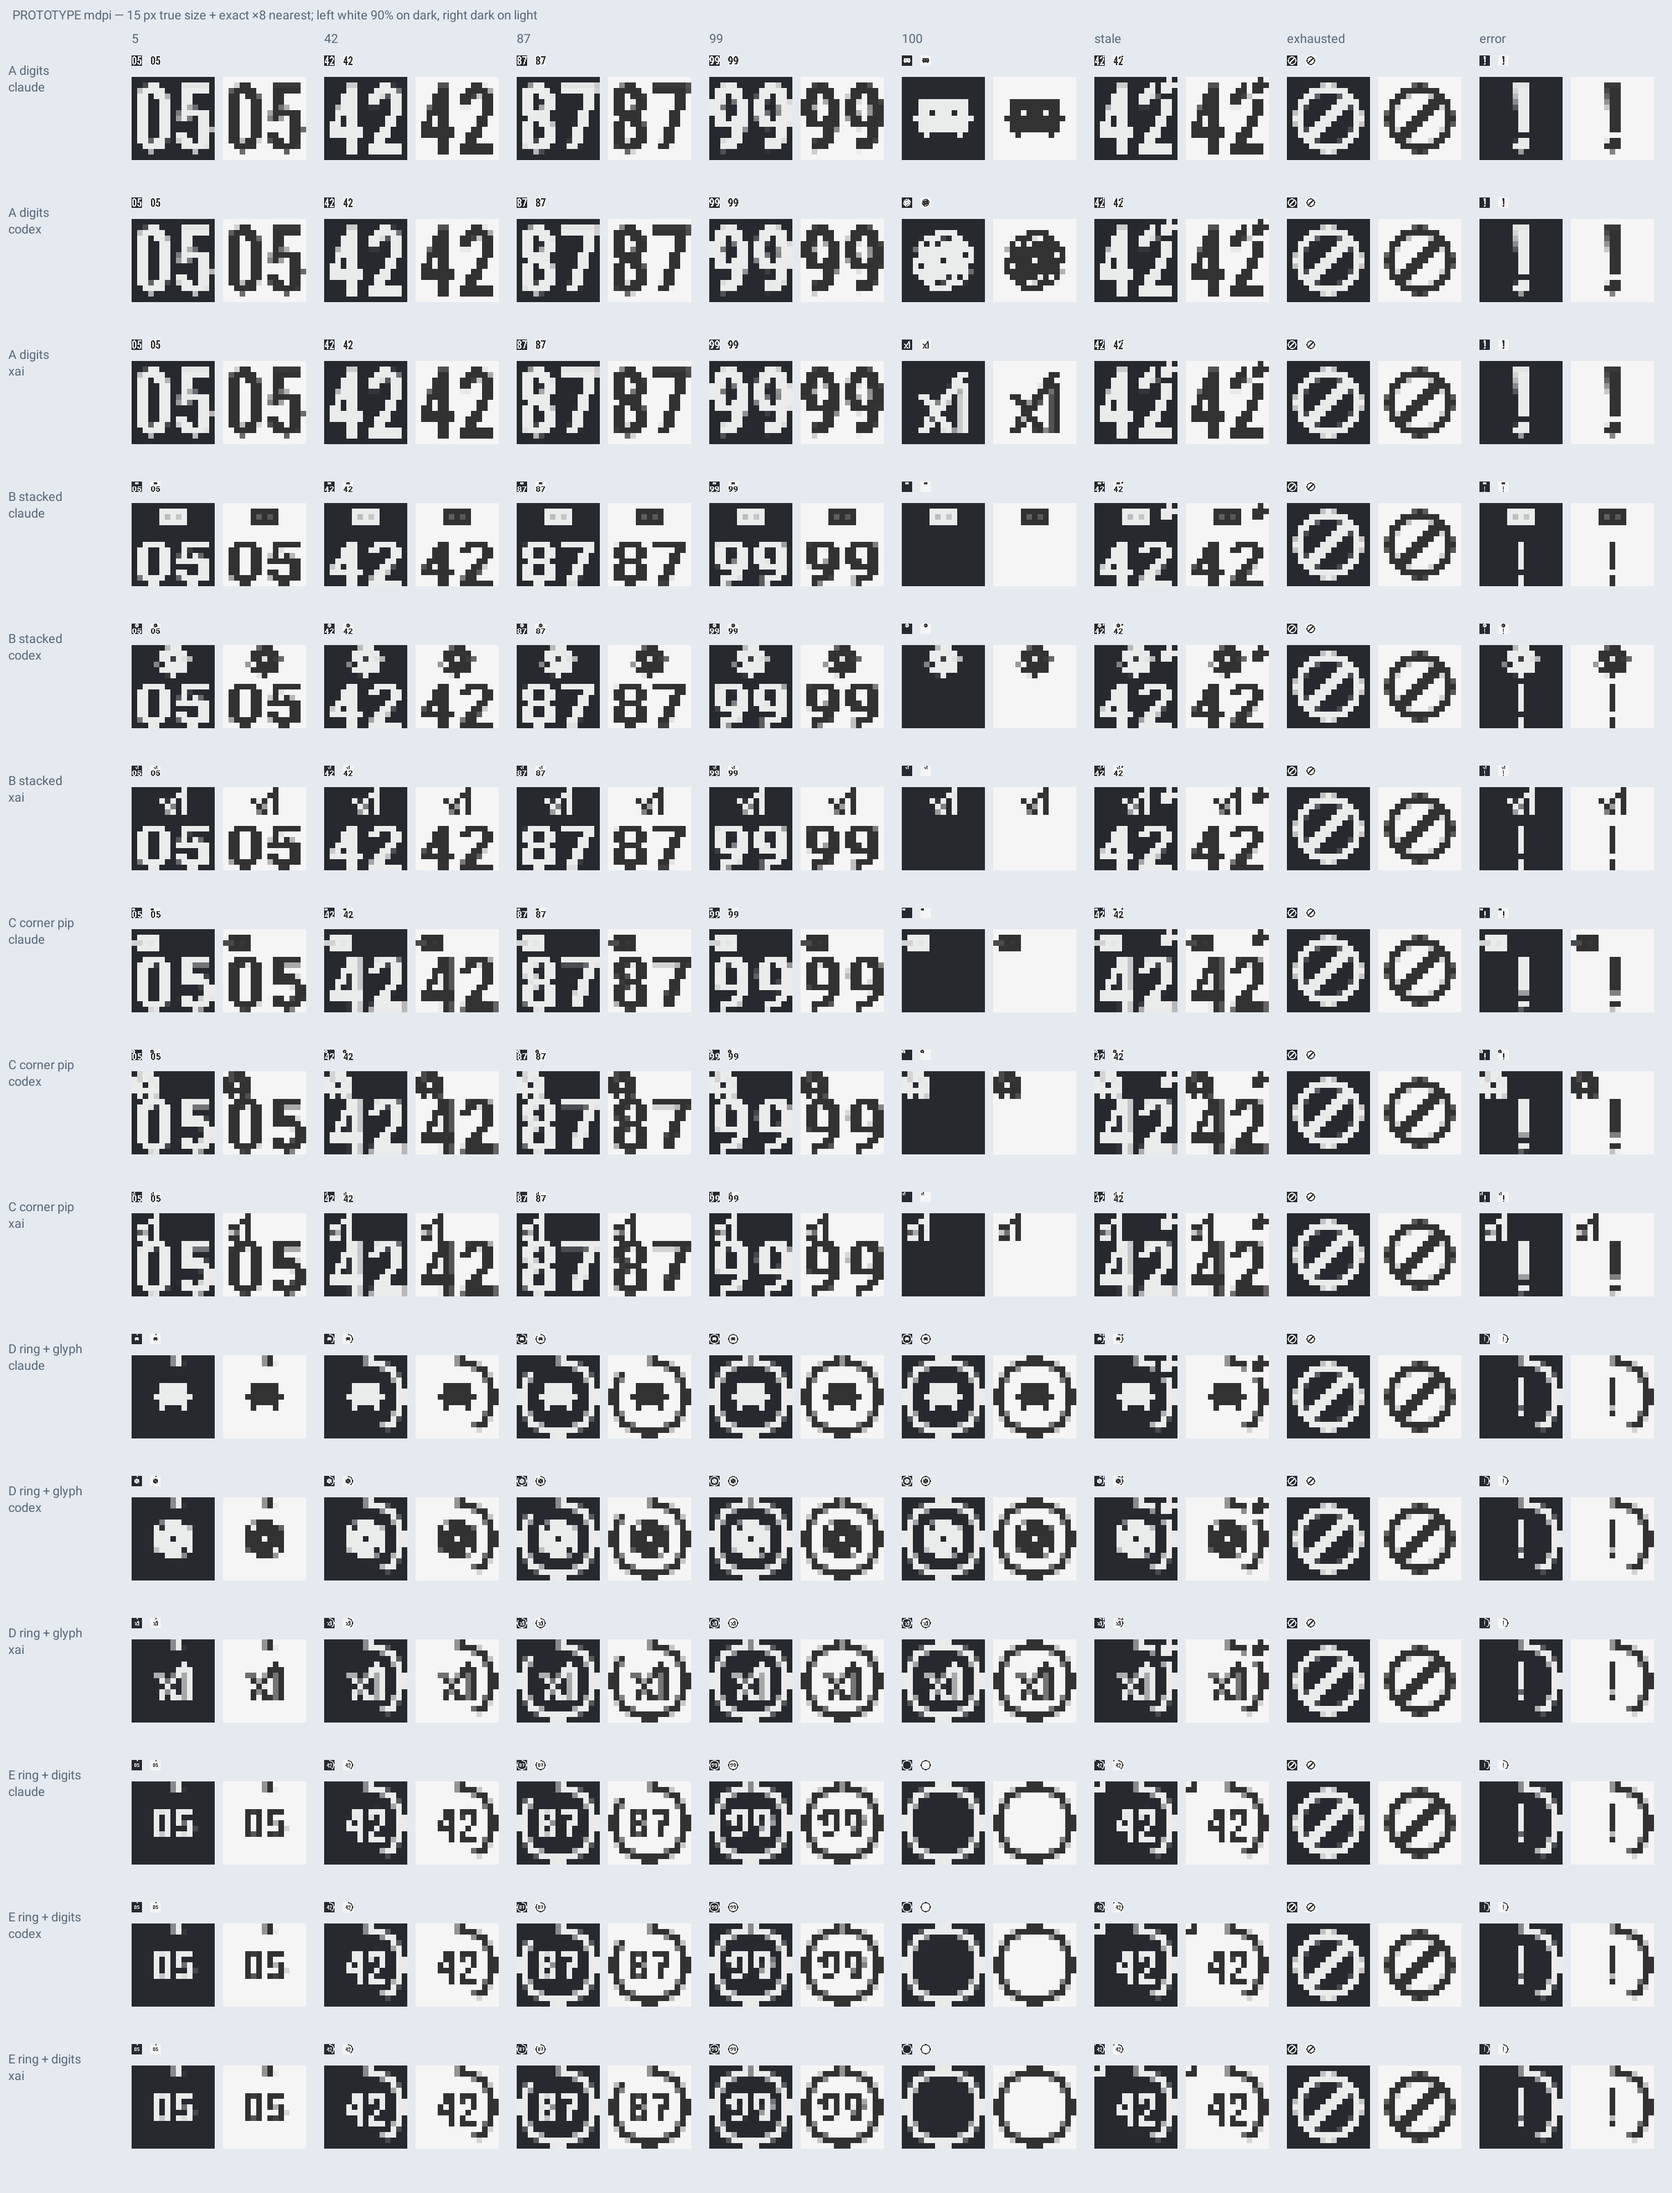
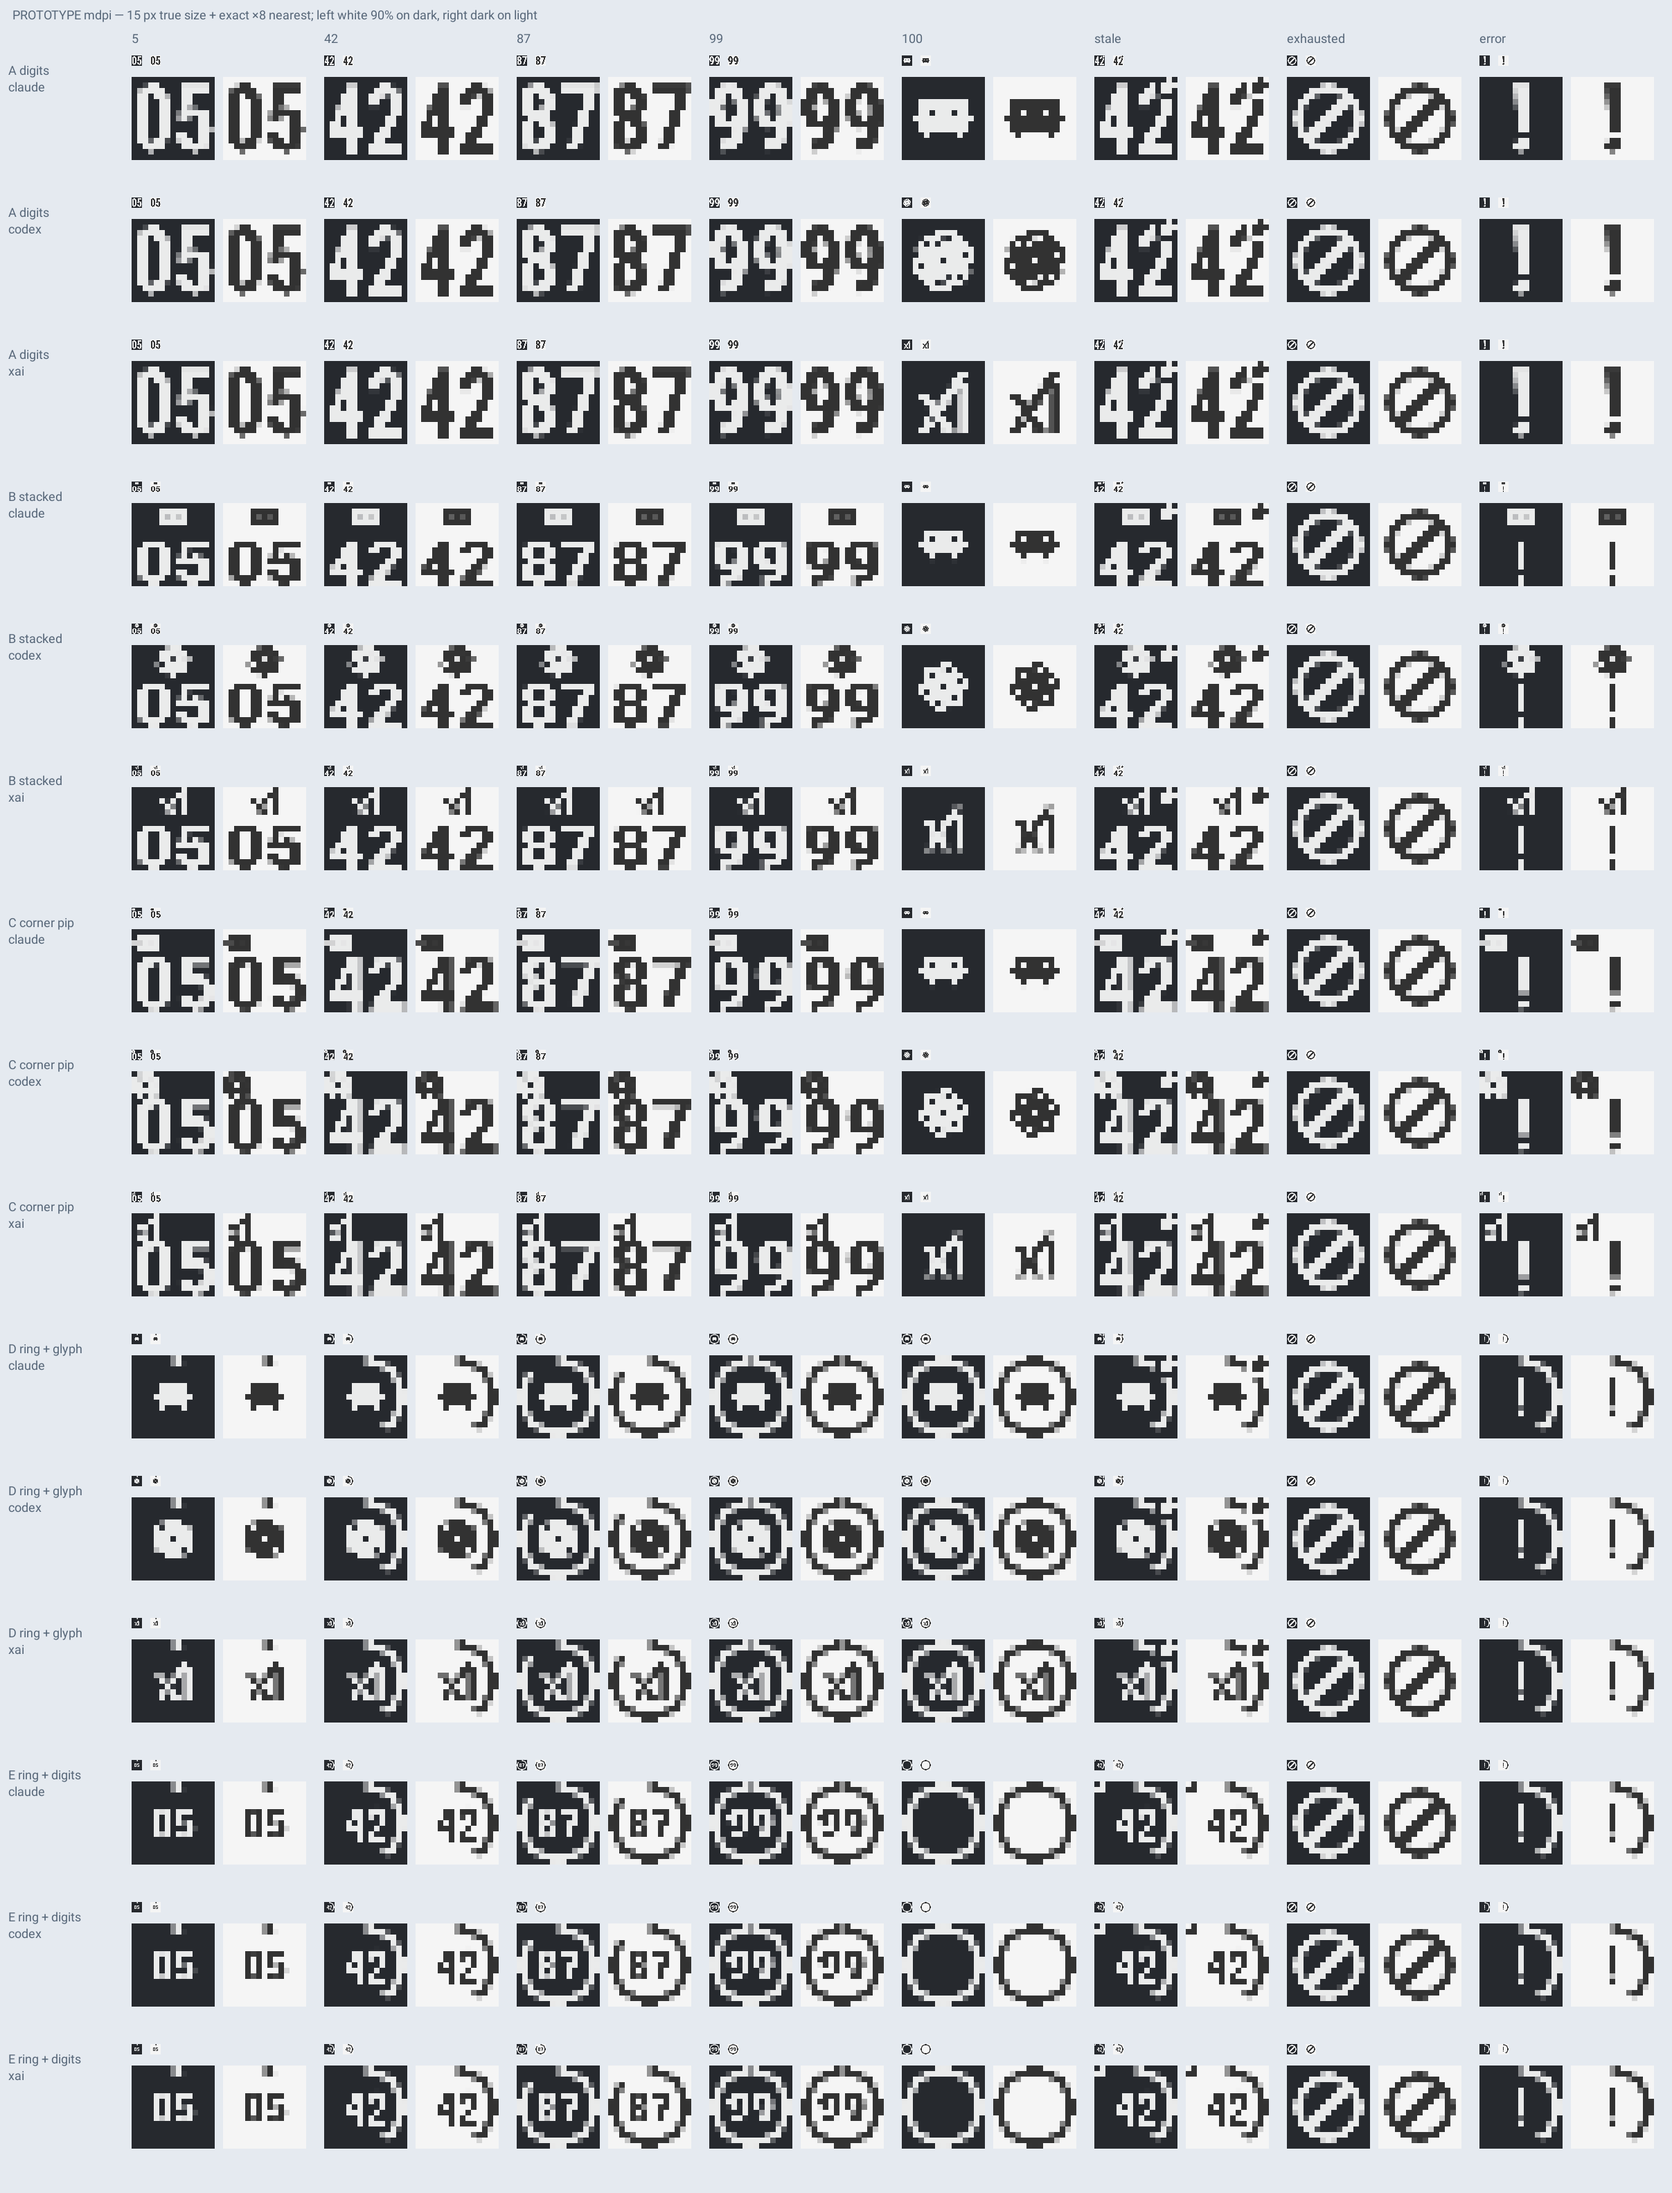
Prototype: preserve centered full-quota glyphs and three-account strips
- Keep the owner-defined 100 no-number rule and B layout comparisons.
- Restore the original three-provider simulated strip beside full state strips.

diff --git a/app/src/test/kotlin/com/usagelimits/prototype/PrototypeStatusbarRenderingTest.kt b/app/src/test/kotlin/com/usagelimits/prototype/PrototypeStatusbarRenderingTest.kt
@@ -141,6 +141,29 @@ class PrototypeStatusbarRenderingTest {
             }
         }
         save(strip, "statusbar-strips-xxhdpi.png")
+        strip.recycle()
+        val accountsStrip = Bitmap.createBitmap(1240, 50 + variants.size * 220, Bitmap.Config.ARGB_8888)
+        val accountsCanvas = Canvas(accountsStrip)
+        accountsCanvas.drawColor(Color.rgb(229, 234, 240))
+        accountsCanvas.drawText("PROTOTYPE xxhdpi: three accounts, 15dp icons in 22dp slots (45px / 66px)", 18f, 30f, label)
+        for ((i, variant) in variants.withIndex()) {
+            accountsCanvas.drawText("$variant — Claude 5 / Codex 42 / xAI 87", 18f, 70f + i * 220f, label)
+            for (light in listOf(false, true)) {
+                val y = 90 + i * 220 + if (light) 80 else 0
+                accountsCanvas.drawRect(18f, y.toFloat(), 1222f, y + 72f, Paint().apply { color = if (light) Color.rgb(245, 245, 245) else Color.rgb(38, 41, 46) })
+                accountsCanvas.drawText("9:41", 48f, y + 51f, Paint(ink).apply { textAlign = Paint.Align.LEFT; textSize = 42f; color = if (light) Color.rgb(30, 30, 30) else Color.WHITE })
+                for ((p, provider) in providers.withIndex()) {
+                    val source = mask(i, provider, listOf("5", "42", "87")[p])
+                    val real = Bitmap.createScaledBitmap(source, 45, 45, true)
+                    tinted(accountsCanvas, real, 196 + p * 66, y + 13, light)
+                    source.recycle()
+                    real.recycle()
+                }
+                accountsCanvas.drawText("LTE   ▰  95%", 918f, y + 49f, Paint(ink).apply { textSize = 32f; color = if (light) Color.rgb(30, 30, 30) else Color.WHITE })
+            }
+        }
+        save(accountsStrip, "statusbar-three-accounts-xxhdpi.png")
+        accountsStrip.recycle()
         compositeSheets()
         stackedComparisonSheets()
     }
@@ -161,7 +184,7 @@ class PrototypeStatusbarRenderingTest {
         } else when (variant) {
             0 -> if (state == "100") glyph(canvas, provider, RectF(3f, 3f, 21f, 21f)) else digits(canvas, text, RectF(0.4f, 1.2f, 23.6f, 22.5f))
             1 -> {
-                val glyphBounds = if (state == "100" && stackedOption == "centered") RectF(5f, 5f, 19f, 19f) else RectF(7f, 0f, 17f, 9f)
+                val glyphBounds = if (state == "100" && stackedOption != "top") RectF(5f, 5f, 19f, 19f) else RectF(7f, 0f, 17f, 9f)
                 glyph(canvas, provider, glyphBounds)
                 if (state != "100") {
                     val single = stackedOption == "single"
@@ -180,7 +203,7 @@ class PrototypeStatusbarRenderingTest {
                 }
             }
             2 -> {
-                glyph(canvas, provider, RectF(0f, 0f, 8.5f, 8.5f))
+                glyph(canvas, provider, if (state == "100") RectF(5f, 5f, 19f, 19f) else RectF(0f, 0f, 8.5f, 8.5f))
                 if (state != "100") digits(canvas, text, RectF(1f, 7f, 24f, 24f))
             }
             3, 4 -> {
@@ -217,7 +240,7 @@ class PrototypeStatusbarRenderingTest {
         val choices = listOf(
             Triple("5 single", "5", "single"),
             Triple("05 padded", "5", "default"),
-            Triple("100 top glyph", "100", "default"),
+            Triple("100 top glyph", "100", "top"),
             Triple("100 centered glyph", "100", "centered"),
             Triple("stale dot below", "stale", "dot-below"),
             Triple("stale underline", "stale", "underline"),

diff --git a/docs/research/statusbar-prototype.md b/docs/research/statusbar-prototype.md
@@ -16,9 +16,9 @@ API 34/35 add plain a/b capture lanes. API 36 also captures one channel per acco
 
 ## Regenerate contact sheets
 
-From this worktree run `bash tools/prototype_statusbar_contacts.sh`. It acquires `/tmp/ulv-gradle.lock`, runs only the prototype renderer with native Robolectric graphics, writes the sheets to `app/build/reports/statusbar-prototype/`, and copies the exact A/C source masks into debug-only assets. The checked-in masks are the actual masks used by the emulator; no second renderer guesses their appearance. `docs/images/statusbar-prototype/` preserves the generated sheets on this throwaway branch as primary-source pixels, separate from ephemeral build output.
+From this worktree run `bash tools/prototype_statusbar_contacts.sh`. It acquires `/tmp/ulv-gradle.lock`, runs only the prototype renderer with native Robolectric graphics, writes the sheets to `app/build/reports/statusbar-prototype/`, and copies the exact A/C/E/F source masks into debug-only assets. The checked-in masks are the actual masks used by the emulator; no second renderer guesses their appearance. `docs/images/statusbar-prototype/` preserves the generated sheets on this throwaway branch as primary-source pixels, separate from ephemeral build output.
 
-Four intentionally different structures: A digits only; B glyph over digits; C corner provider glyph and digits; D ring around provider glyph. Claude uses the Code mascot source, Codex an intentionally simplified six-loop OpenAI knot, xAI the local LobeHub path. White source RGB has no meaning: only alpha survives SystemUI tinting. Normal single digits are zero-padded (`05`). Stale is `42` plus a separated corner dot, exhausted is a crossed circle, error is `!`. The prototype does not establish a production rule for 100; the design verdict must do so.
+Primary structures are A digits only, B glyph over digits, C corner provider glyph and digits; D ring around provider glyph and E ring around digits remain comparison-only alternatives. F compares composite bars and concentric rings. Claude uses the Code mascot source, Codex an intentionally simplified six-loop OpenAI knot, xAI the local LobeHub path. White source RGB has no meaning: only alpha survives SystemUI tinting. Normal single digits are zero-padded (`05`). Stale is `42` plus a separated corner dot, exhausted is a crossed circle, error is `!`. The owner's rule for 100 is provider glyph only, no numeric token; B comparison sheets preserve both centered and usual-position glyph options.
 
 `density-*.png` is authoritative for true pixel size and exact nearest-neighbour ×8. `source-authored-192px.png` shows the full 192px masks. Overview sheet previews are capped and explicitly labelled as such. The xxhdpi strip uses 45px drawings centered in 66px/22dp slots, with a clock and system-side placeholders.
 
